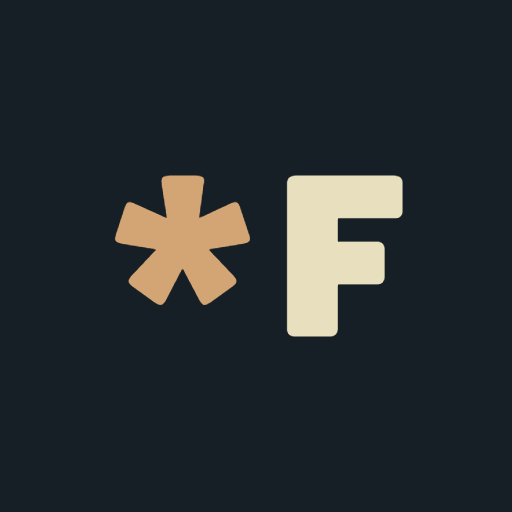
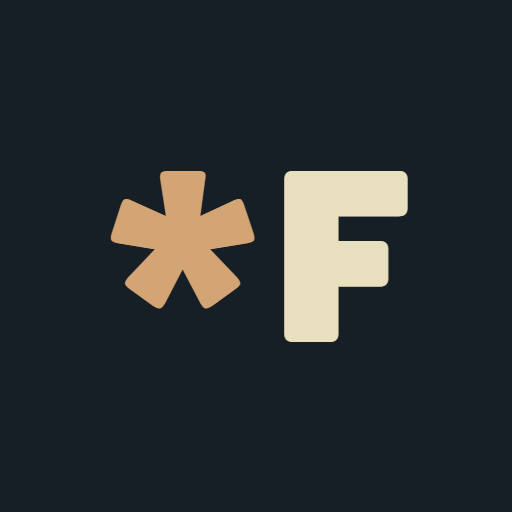
Add files via upload

diff --git a/index.html b/index.html
@@ -439,6 +439,6 @@
 
 <!-- Code : app.js (même règle pour le numéro v=). Aucun code dans la page elle-même :
      la politique de sécurité bloquerait tout script ou onclick= écrit ici. -->
-<script src="app.js?v=6"></script>
+<script src="app.js?v=7"></script>
 </body>
 </html>

diff --git a/README.md b/README.md
@@ -22,7 +22,7 @@ Application personnelle de suivi de films (et séries), hébergée sur GitHub Pa
 | `films.json` | Base de données : un tableau de films et leurs métadonnées |
 | `apercu.png` | Image d'aperçu affichée quand on partage le lien (1200 × 630) |
 | `manifest.webmanifest` | Description de l'application installable : nom, couleurs, page de départ, icônes (voir « Application sur téléphone ») |
-| `icone-192.png`, `icone-512.png`, `icone-maskable-512.png`, `apple-touch-icon.png` | Icônes de l'application : « \*F » dans la police du logo (Bungee), astérisque doré et F crème sur fond sombre (Android, forme adaptable d'Android avec la lettre plus petite pour rester entière en rond, iPhone) |
+| `icone-192.png`, `icone-512.png`, `apple-touch-icon.png` | Icônes de l'application (Android, iPhone) : « \*F », même famille que l'icône « \*N » de nocturne (voir « Application sur téléphone ») |
 | `README.md` | Ce document |
 
 Flux de données :
@@ -134,6 +134,15 @@ Le site s'installe sur l'écran d'accueil comme une application, sans store : `m
 - **Android, Chrome** : menu ⋮ → « Installer l'application ». Vraie installation (liste des applis), mémoire partagée avec Chrome.
 - **Android, Brave** (comme Firefox ou Edge) : en général un raccourci sur l'écran d'accueil plutôt qu'une installation complète, l'installation passant par un service réservé à Chrome ; mémoire partagée avec Brave. Une installation complète dans Brave pourrait demander un mode hors connexion (non fait).
 - Pas de mode hors connexion pour l'instant : sans réseau, l'application ne s'ouvre pas.
+
+**L'icône « \*F »** suit les règles de l'icône « \*N » de nocturne (ricojrlyon/nocturne-lyon), pour que les deux applications aient l'air de la même famille sur un téléphone :
+
+- PNG carré, opaque, sans coins arrondis (le téléphone les arrondit lui-même) : 512 et 192 px pour Android, 180 px pour l'iPhone (`apple-touch-icon.png`).
+- Fond `#161f25`, F crème `#e7dfbe`, astérisque ocre `#d4a574`, police Bungee (graisse normale, licence libre OFL). « \* » puis la lettre, collés, sans espace ; l'astérisque garde sa place naturelle, son haut aligné sur le haut de la lettre.
+- Même taille de lettre que le N : police à 46,4 % du côté (237,6 px à 512, 89,1 px à 192, 83,5 px à 180). C'est la taille où le rectangle « \*N » (largeur du texte × hauteur des capitales) a une diagonale de 76 % du côté. « \*F », plus étroit, garde cette taille ; son rectangle (317,4 × 171 px à 512) est centré, ligne de base arrondie au pixel du dessous.
+- Le dessin tient dans le disque de 80 % du côté qu'Android ne rogne jamais : `icone-512.png` sert donc aussi de forme adaptable (« maskable ») dans le manifeste, comme chez nocturne.
+- Dessinées comme celles de nocturne : texte SVG affiché par un navigateur de la famille Chrome sans fenêtre (Edge). La même méthode refait le « \*N » de nocturne au pixel près.
+- Un téléphone garde l'icône du jour de l'installation : pour voir une nouvelle icône, retirer l'application de l'écran d'accueil puis l'ajouter de nouveau (Chrome sur Android peut la remplacer seul, en quelques jours).
 
 ## Affichage
 
